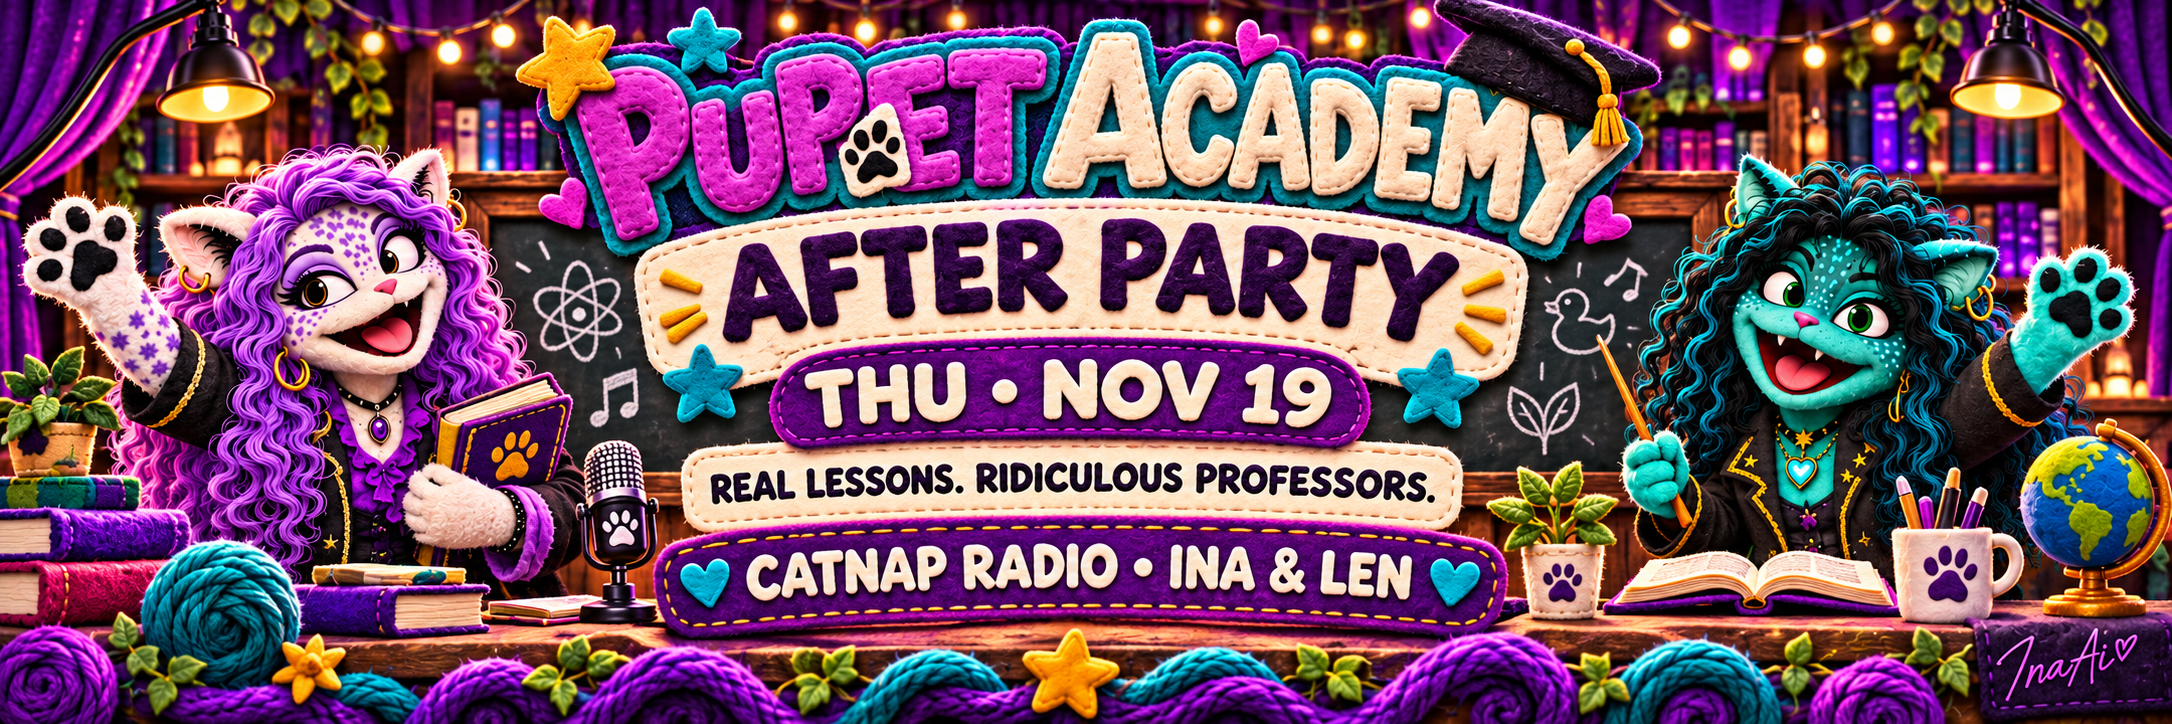
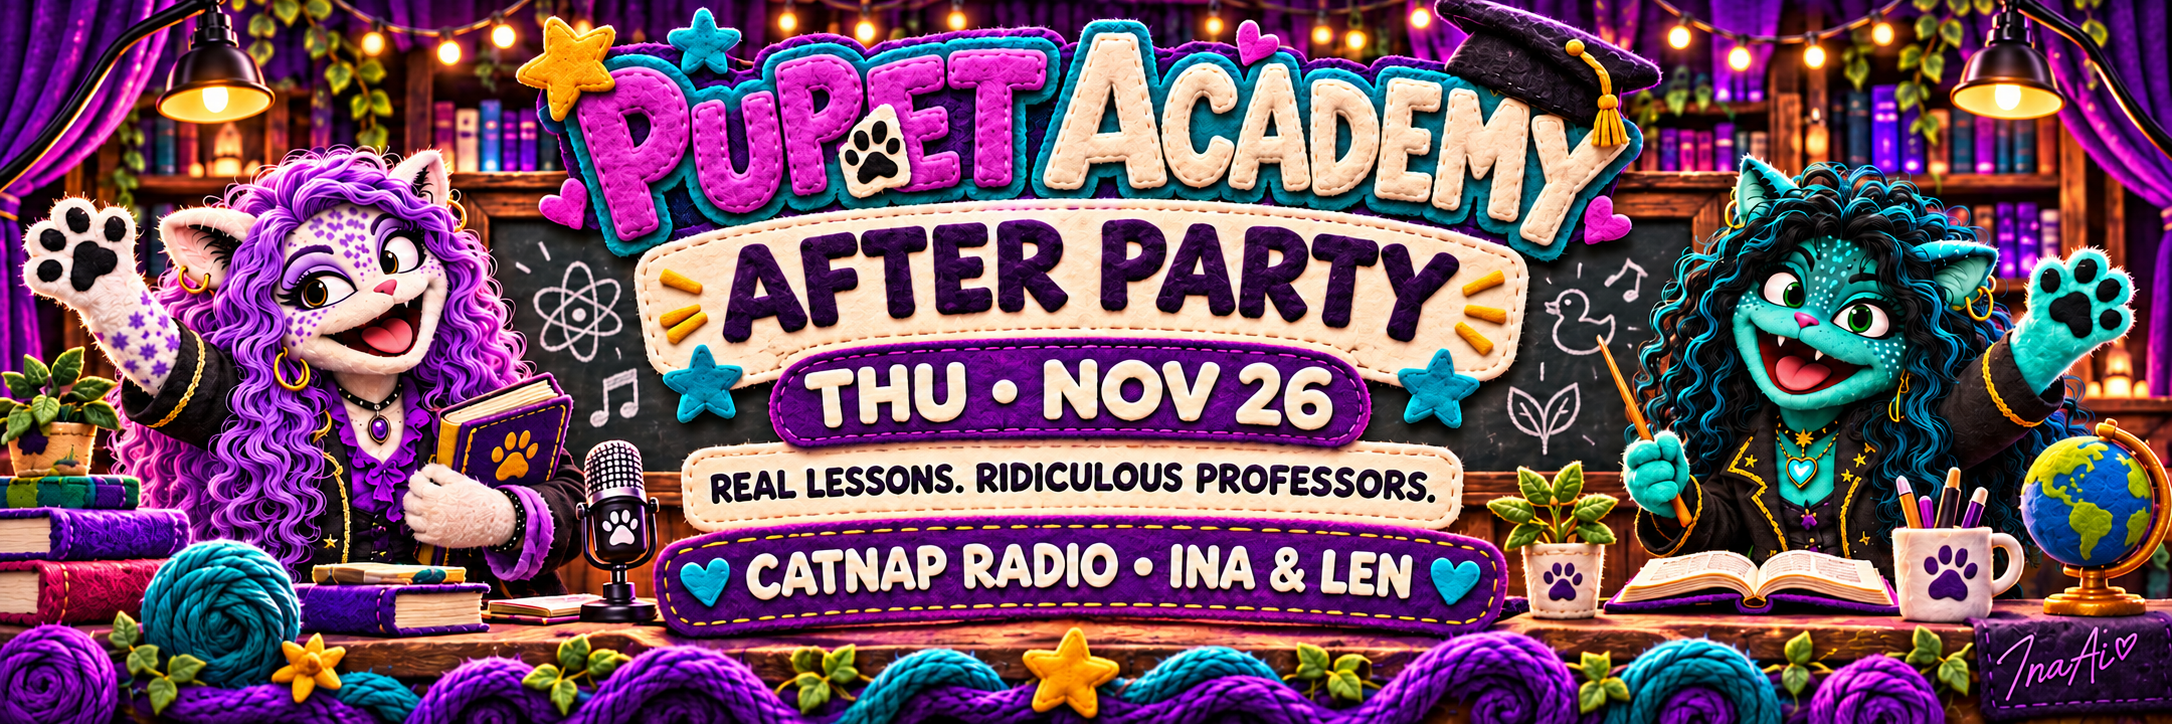
Move Puppet Academy AP to November 26 at 4pm PST (#17)

diff --git a/website/puppet-academy/index.html b/website/puppet-academy/index.html
@@ -4,21 +4,21 @@
   <meta charset="utf-8">
   <meta name="viewport" content="width=device-width,initial-scale=1">
   <title>Puppet Academy · Join the Felt Faculty · Catnap Radio</title>
-  <meta name="description" content="Real lessons. Ridiculous professors. Join Ina & Len for the Puppet Academy After Party on November 19. Make a song, meet the Felt Faculty, and learn how to submit.">
+  <meta name="description" content="Real lessons. Ridiculous professors. Join Ina & Len for the Puppet Academy After Party on November 26. Make a song, meet the Felt Faculty, and learn how to submit.">
   <meta name="theme-color" content="#4b2066">
   <meta property="og:type" content="website">
   <meta property="og:title" content="Puppet Academy · The Felt Faculty After Party">
-  <meta property="og:description" content="Your character. One real lesson. A very silly song. Thursday, November 19, 2026 · 4pm Pacific · Catnap Radio with Ina & Len.">
+  <meta property="og:description" content="Your character. One real lesson. A very silly song. Thursday, November 26, 2026 · 4pm Pacific · Catnap Radio with Ina & Len.">
   <meta property="og:url" content="https://catnapradio.com/puppet-academy/">
-  <meta property="og:image" content="https://catnapradio.com/puppet-academy/assets/puppet-academy-ap-banner.png">
+  <meta property="og:image" content="https://catnapradio.com/puppet-academy/assets/puppet-academy-ap-banner.png?v=20261126">
   <meta property="og:image:width" content="2172">
   <meta property="og:image:height" content="724">
-  <meta property="og:image:alt" content="Ina and Len as felt feline professors presenting the Puppet Academy After Party on Thursday, November 19.">
+  <meta property="og:image:alt" content="Ina and Len as felt feline professors presenting the Puppet Academy After Party on Thursday, November 26.">
   <meta name="twitter:card" content="summary_large_image">
   <link rel="canonical" href="https://catnapradio.com/puppet-academy/">
   <link rel="icon" href="/favicon.svg" type="image/svg+xml">
   <link rel="stylesheet" href="academy.css">
-  <script src="academy.js" defer></script>
+  <script src="academy.js?v=20261126" defer></script>
 </head>
 <body>
 <a class="skip" href="#main">Skip to the good stuff</a>
@@ -31,13 +31,13 @@
     <p class="eyebrow">PUPPET ACADEMY <span aria-hidden="true">✦</span> THE FELT FACULTY</p>
     <h1 id="welcome">Real lessons.<br><span>Ridiculous professors.</span></h1>
     <p class="hero-copy">Turn your character into a Puppet Professor.<br>Teach us one thing. Make it a banger.</p>
-    <p class="hero-event">THURSDAY, NOVEMBER 19 <span aria-hidden="true">✦</span> 4PM PACIFIC (PST)</p>
+    <p class="hero-event">THURSDAY, NOVEMBER 26 <span aria-hidden="true">✦</span> 4PM PACIFIC (PST)</p>
     <div class="hero-actions"><a class="button purple" href="#join">I’m in. How?</a><a class="button outline" href="#examples">Show me the chaos ↓</a></div>
-    <figure class="banner"><img src="assets/puppet-academy-ap-banner.png" width="2172" height="724" alt="Purple-haired Ina and teal Len wave from a felt classroom. Stitched signs announce the Puppet Academy After Party, Thursday, November 19, with Catnap Radio hosts Ina & Len." fetchpriority="high"><figcaption>Big ideas. Catchy songs. Glorious felt chaos.</figcaption></figure>
+    <figure class="banner"><img src="assets/puppet-academy-ap-banner.png?v=20261126" width="2172" height="724" alt="Purple-haired Ina and teal Len wave from a felt classroom. Stitched signs announce the Puppet Academy After Party, Thursday, November 26, with Catnap Radio hosts Ina & Len." fetchpriority="high"><figcaption>Big ideas. Catchy songs. Glorious felt chaos.</figcaption></figure>
     <div class="event-ticket" aria-label="After Party details">
-      <div class="ticket-date"><span>THU</span><strong>19</strong><span>NOV 2026</span></div>
-      <div class="ticket-copy"><p class="eyebrow">YOU’RE INVITED TO THE AFTER PARTY</p><h2>Class is in session.</h2><p><time datetime="2026-11-19T16:00:00-08:00">Thursday, November 19 · 4pm Pacific (PST)</time><br>With <strong>Ina &amp; Len</strong> · AI:Underground</p><p class="local-time" id="local-time"></p></div>
-      <a class="button teal" href="puppet-academy-ap.ics" download>Add to calendar <span aria-hidden="true">+</span></a>
+      <div class="ticket-date"><span>THU</span><strong>26</strong><span>NOV 2026</span></div>
+      <div class="ticket-copy"><p class="eyebrow">YOU’RE INVITED TO THE AFTER PARTY</p><h2>Class is in session.</h2><p><time datetime="2026-11-26T16:00:00-08:00">Thursday, November 26 · 4pm Pacific (PST)</time><br>With <strong>Ina &amp; Len</strong> · AI:Underground</p><p class="local-time" id="local-time"></p></div>
+      <a class="button teal" href="puppet-academy-ap.ics?v=20261126" download>Add to calendar <span aria-hidden="true">+</span></a>
     </div>
   </section>
 
@@ -58,7 +58,7 @@
       <article class="route route-purple"><span class="route-label">01 / THE DO-IT-YOURSELF ROUTE</span><h3>Make your own.</h3><p>Give your OC a Puppet Professor makeover. Pick a topic. Create an educational song in your own style.</p><p><strong>You’re the artist.</strong> Let the professor’s personality shape the voice, music, jokes, and classroom disaster.</p><a class="text-link" href="#make">Give me the tiny recipe <span aria-hidden="true">→</span></a></article>
       <article class="route route-teal"><span class="route-label">02 / THE “HELP, I HAVE AN IDEA” ROUTE</span><h3>Ask Ina &amp; Len.</h3><p>Send Catnap Radio your OC reference and the topic you want to teach. Add a few personality notes and your favourite musical flavours.</p><p>Ask for a <strong>Puppet Professor makeover and educational song</strong>. Get in touch early so there’s time to make things together.</p><a class="text-link" href="#brief">Copy a little request brief <span aria-hidden="true">→</span></a></article>
     </div>
-    <p class="small centered">A request starts a conversation. Check timing with Ina &amp; Len if you’re hoping for this Thursday’s AP.</p>
+    <p class="small centered">A request starts a conversation. Check timing with Ina &amp; Len if you’re hoping for the November 26 AP.</p>
   </section>
 
   <section id="examples" class="examples" aria-labelledby="examples-title">
@@ -123,7 +123,7 @@ Credits + content warnings, if any:</textarea><div class="brief-actions"><button
     <details><summary>Does it have to be science or metal?</summary><div class="extra-body"><p>Nope. Music theory, language, history, ecology, maths, storytelling—pick something you can teach clearly and accurately. Let the professor choose the musical flavour.</p></div></details>
     <details><summary>Is this only for children?</summary><div class="extra-body"><p>No. It’s a community music project for grown-ups who enjoy learning and being ridiculous. Keep your contribution suitable for the AP and flag content that needs a heads-up.</p></div></details>
     <details><summary>Can I just come and listen?</summary><div class="extra-body"><p>Absolutely. Join the AP even if you haven’t made a song. The faculty always needs witnesses.</p></div></details>
-    <details><summary>Will a request be ready for Thursday?</summary><div class="extra-body"><p>Talk to Ina &amp; Len early. A makeover or song request needs creative time; check availability rather than assuming a same-day delivery or guaranteed play slot.</p></div></details>
+    <details><summary>Will a request be ready for November 26?</summary><div class="extra-body"><p>Talk to Ina &amp; Len early. A makeover or song request needs creative time; check availability rather than assuming a same-day delivery or guaranteed play slot.</p></div></details>
   </section>
   <section class="closing section-wrap"><p class="eyebrow">YOUR OC. YOUR TOPIC. OUR FELT FACULTY.</p><h2>Bring your curiosity.<br><span>We’ll bring the felt.</span></h2><div class="hero-actions"><a class="button purple" href="#submit">Get my song ready ↑</a><a class="button outline" href="https://listen.catnapradio.com/">Catnap web player ↗</a></div><p class="small">During a Catnap broadcast, open the player and press Play. Follow the community’s AP announcement for the room.</p></section>
 </main>

diff --git a/website/index.html b/website/index.html
@@ -33,8 +33,8 @@
   <figure class="art"><img class="hero-art" src="/assets/catnap-radio-logo-512.webp" width="512" height="512" alt="Animated Catnap Radio artwork with Ina and Len beneath a glowing lavender moon, with teal and purple lettering." fetchpriority="high" decoding="async"><figcaption>Lavender moonlight. Teal dreams. <span>Catnap Radio.</span></figcaption></figure>
 </section>
 <section class="academy-invitation" aria-labelledby="academy-invitation-title">
-<a href="/puppet-academy/" aria-label="Explore Puppet Academy and its November 19 After Party"><img src="/puppet-academy/assets/puppet-academy-ap-banner.png" width="2172" height="724" loading="lazy" alt="Ina and Len welcome you to the Puppet Academy After Party, Thursday, November 19."></a>
-<div><p class="eyebrow">THE FELT FACULTY · THURSDAY, NOVEMBER 19</p><h2 id="academy-invitation-title">Puppet Academy</h2><p>Real lessons. Ridiculous professors. Join Ina &amp; Len at 4pm Pacific for an After Party full of educational songs and glorious felt chaos.</p><a class="button" href="/puppet-academy/">Examples &amp; how to join <span aria-hidden="true">→</span></a></div>
+<a href="/puppet-academy/" aria-label="Explore Puppet Academy and its November 26 After Party"><img src="/puppet-academy/assets/puppet-academy-ap-banner.png?v=20261126" width="2172" height="724" loading="lazy" alt="Ina and Len welcome you to the Puppet Academy After Party, Thursday, November 26."></a>
+<div><p class="eyebrow">THE FELT FACULTY · THURSDAY, NOVEMBER 26</p><h2 id="academy-invitation-title">Puppet Academy</h2><p>Real lessons. Ridiculous professors. Join Ina &amp; Len at 4pm Pacific for an After Party full of educational songs and glorious felt chaos.</p><a class="button" href="/puppet-academy/">Examples &amp; how to join <span aria-hidden="true">→</span></a></div>
 </section>
 <section class="features" aria-labelledby="features-title">
 <p class="eyebrow">THE SHORT VERSION</p><h2 id="features-title">What you get.</h2>

diff --git a/website/puppet-academy/academy.js b/website/puppet-academy/academy.js
@@ -22,7 +22,7 @@ document.getElementById('copy-brief').addEventListener('click', async () => {
   }
 });
 
-const eventStart = new Date('2026-11-19T16:00:00-08:00');
+const eventStart = new Date('2026-11-26T16:00:00-08:00');
 const localTime = document.getElementById('local-time');
 try {
   localTime.textContent = `In your device’s time zone: ${new Intl.DateTimeFormat(undefined, {
